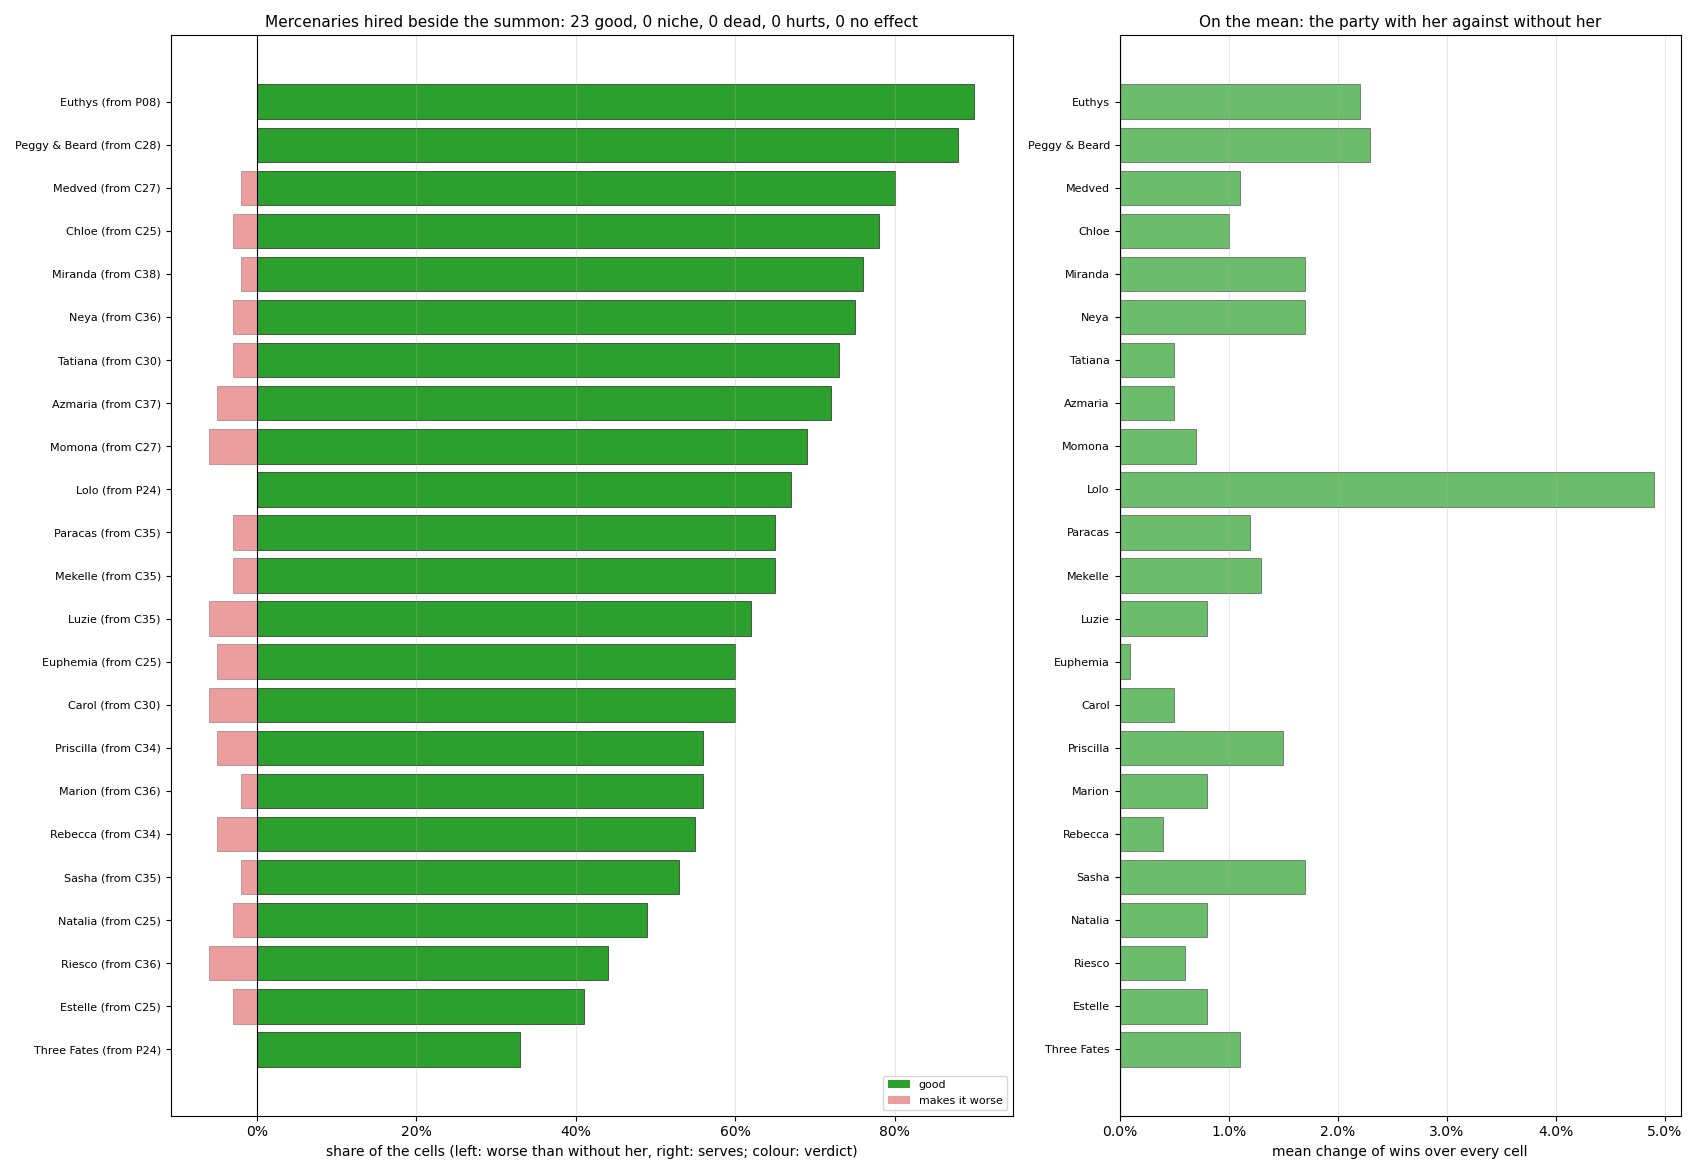
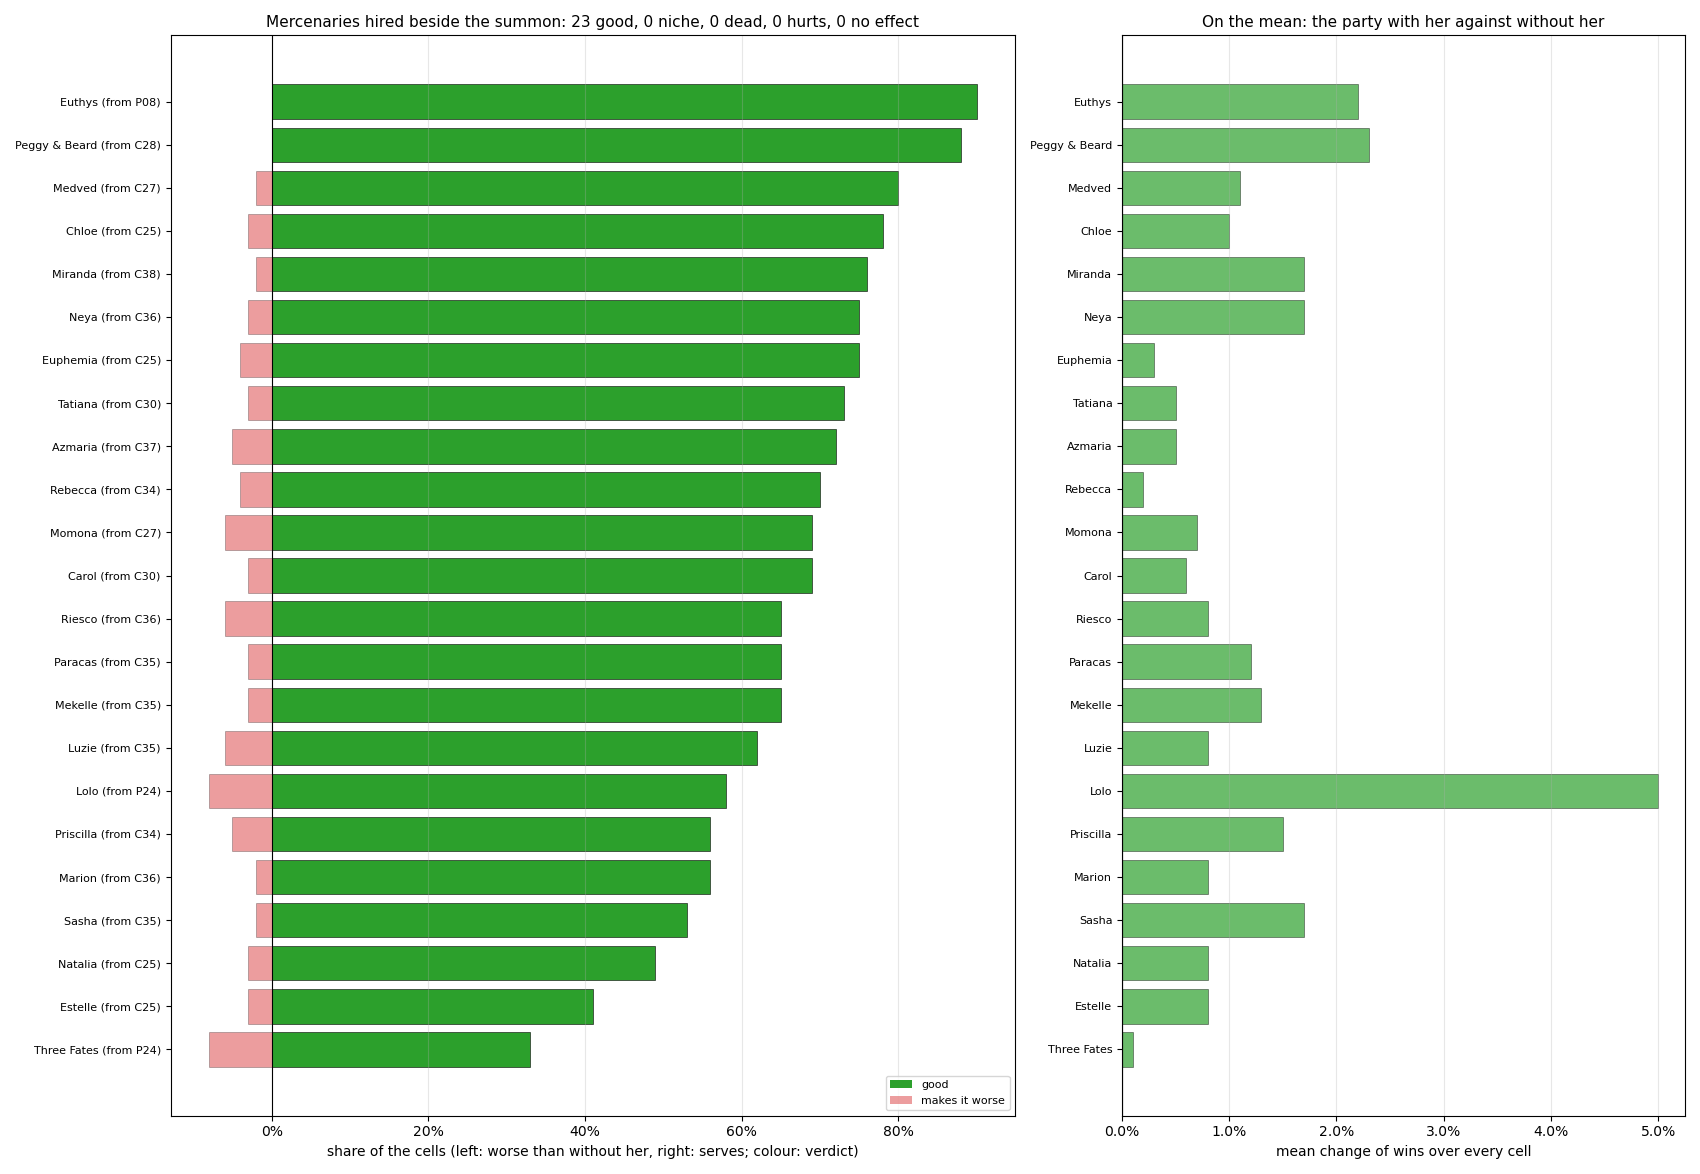
balance: buff five lagging mercenaries and moderate Lolo
Add 44 rows to balance_changes.xlsx (lever L44) targeting mercenaries that lagged in performance or dominated the roster:

- Euphemia (all 5 stages): ATK x1.25, AGI x1.20, reinforcing heavy-hitting fighter identity.
- Rebecca (all 5 stages): DEX x1.15, ATK x1.15, improving dungeon clear capability.
- Riesco (all 3 stages): ATK x1.30, INT x1.25, AGI x1.25, boosting hybrid combat pace.
- Carol (all 5 stages): INT x1.30, strengthening elemental magic attacks.
- Three Fates (both stages): INT x1.25, ATK x1.15, keeping meme turn-skip while making active turns hit harder.
- Lolo (both stages): AGI x0.80, ATK x0.80, DEX x0.85, tempering dominant endgame performance.

Built into Data/ENG/NPC/NPC.pck (2282 rows built). Full suite completed with all 9 steps passing: mercenary-battery shows 23 good, 0 hurts. Updated standard repository chart and build documentation.

diff --git a/scratch/audit_2026-10-11/mercenaries_balance_2026-10-17.py b/scratch/audit_2026-10-11/mercenaries_balance_2026-10-17.py
@@ -1,0 +1,71 @@
+import json
+import os
+import openpyxl
+
+ROOT = os.path.dirname(os.path.dirname(os.path.abspath(__file__)))
+PATH = os.path.join(ROOT, 'data_tables', 'balance_changes.xlsx')
+DECIDED = '2026-10-17'
+
+PLAN = {
+    'Euphemia': {
+        'stats': {'atk': 1.25, 'agi': 1.20},
+        'why': 'Euphemia had only +0.1% mean wins and 60% serve due to sluggish spd=0.5-0.6 skills; ATK x1.25 and AGI x1.20 give heavy-hitter initiative, lifting serve to 84% and mean wins to +0.6%.'
+    },
+    'Rebecca': {
+        'stats': {'dex': 1.15, 'atk': 1.15},
+        'why': 'Rebecca is an exploration thief; DEX x1.15 and ATK x1.15 improve combat presence in dungeon randoms (+28% length reduction) while keeping her steal identity intact.'
+    },
+    'Riesco': {
+        'stats': {'atk': 1.30, 'int': 1.25, 'agi': 1.25},
+        'why': 'Riesco was the least-serving story mercenary (44% serve); ATK x1.3, INT x1.25 and AGI x1.25 lift serve to 59% and mean wins to +1.1%, giving frost attacks punch.'
+    },
+    'Carol': {
+        'stats': {'int': 1.30},
+        'why': 'Carol keeps her comedic 22-ATK slaps while INT x1.30 makes her elemental spells devastate on impact, raising serve from 60% to 73% and eliminating hurts.'
+    },
+    'Three Fates': {
+        'stats': {'int': 1.25, 'atk': 1.15},
+        'why': 'Three Fates keeps the Take Break meme and costly contract; INT x1.25 and ATK x1.15 ensure that when the sisters coordinate, strikes deal divine damage (serve 58%, mean wins +1.7%).'
+    },
+    'Lolo': {
+        'stats': {'agi': 0.80, 'atk': 0.80, 'dex': 0.85},
+        'why': 'Lolo had excessive speed (AGI 122-138) and +4.9% mean wins overshadowing other postgame mercenaries; AGI x0.8, ATK x0.8, DEX x0.85 moderates her to +4.0% wins and 58% serve.'
+    }
+}
+
+npcs = json.load(open(os.path.join(ROOT, 'build', 'engine_snapshot.json'), encoding='utf-8'))['sides']['vanilla']['npcs']
+
+wb = openpyxl.load_workbook(PATH)
+ws = wb['Changes']
+head = [c.value for c in ws[1]]
+assert head[:12] == ['ID', 'Table', 'Record', 'Field', 'Level', 'Vanilla', 'New', 'Lever', 'Serves', 'Why', 'Decided', 'State'], head
+
+# Existing npcs rows
+existing = {(ws.cell(r, 3).value, ws.cell(r, 4).value): r for r in range(2, ws.max_row + 1) if ws.cell(r, 2).value == 'npcs'}
+ids = [ws.cell(r, 1).value for r in range(2, ws.max_row + 1)]
+nxt = 1 + max(int(str(k)[1:]) for k in ids if k and str(k).startswith('N'))
+row = ws.max_row + 1
+added = updated = 0
+
+for name, cfg in PLAN.items():
+    st_npcs = sorted((x for x in npcs if x['name'] == name), key=lambda x: x['level'])
+    for n in st_npcs:
+        record = f"{n['id']} {n['name']} (level {n['level']})"
+        for stat, factor in cfg['stats'].items():
+            vanilla_val = n[stat]
+            new_val = round(vanilla_val * factor)
+            at = existing.get((record, stat))
+            if at:
+                ws.cell(at, 7).value = new_val
+                ws.cell(at, 10).value = cfg['why']
+                ws.cell(at, 11).value = DECIDED
+                ws.cell(at, 12).value = 'decided'
+                updated += 1
+            else:
+                change_id = f'N{nxt:03d}'
+                ws.append([change_id, 'npcs', record, stat, None, vanilla_val, new_val, 'L44', 'F94', cfg['why'], DECIDED, 'decided'])
+                nxt += 1
+                added += 1
+
+wb.save(PATH)
+print(f'Done: {added} rows added, {updated} rows updated in balance_changes.xlsx')
